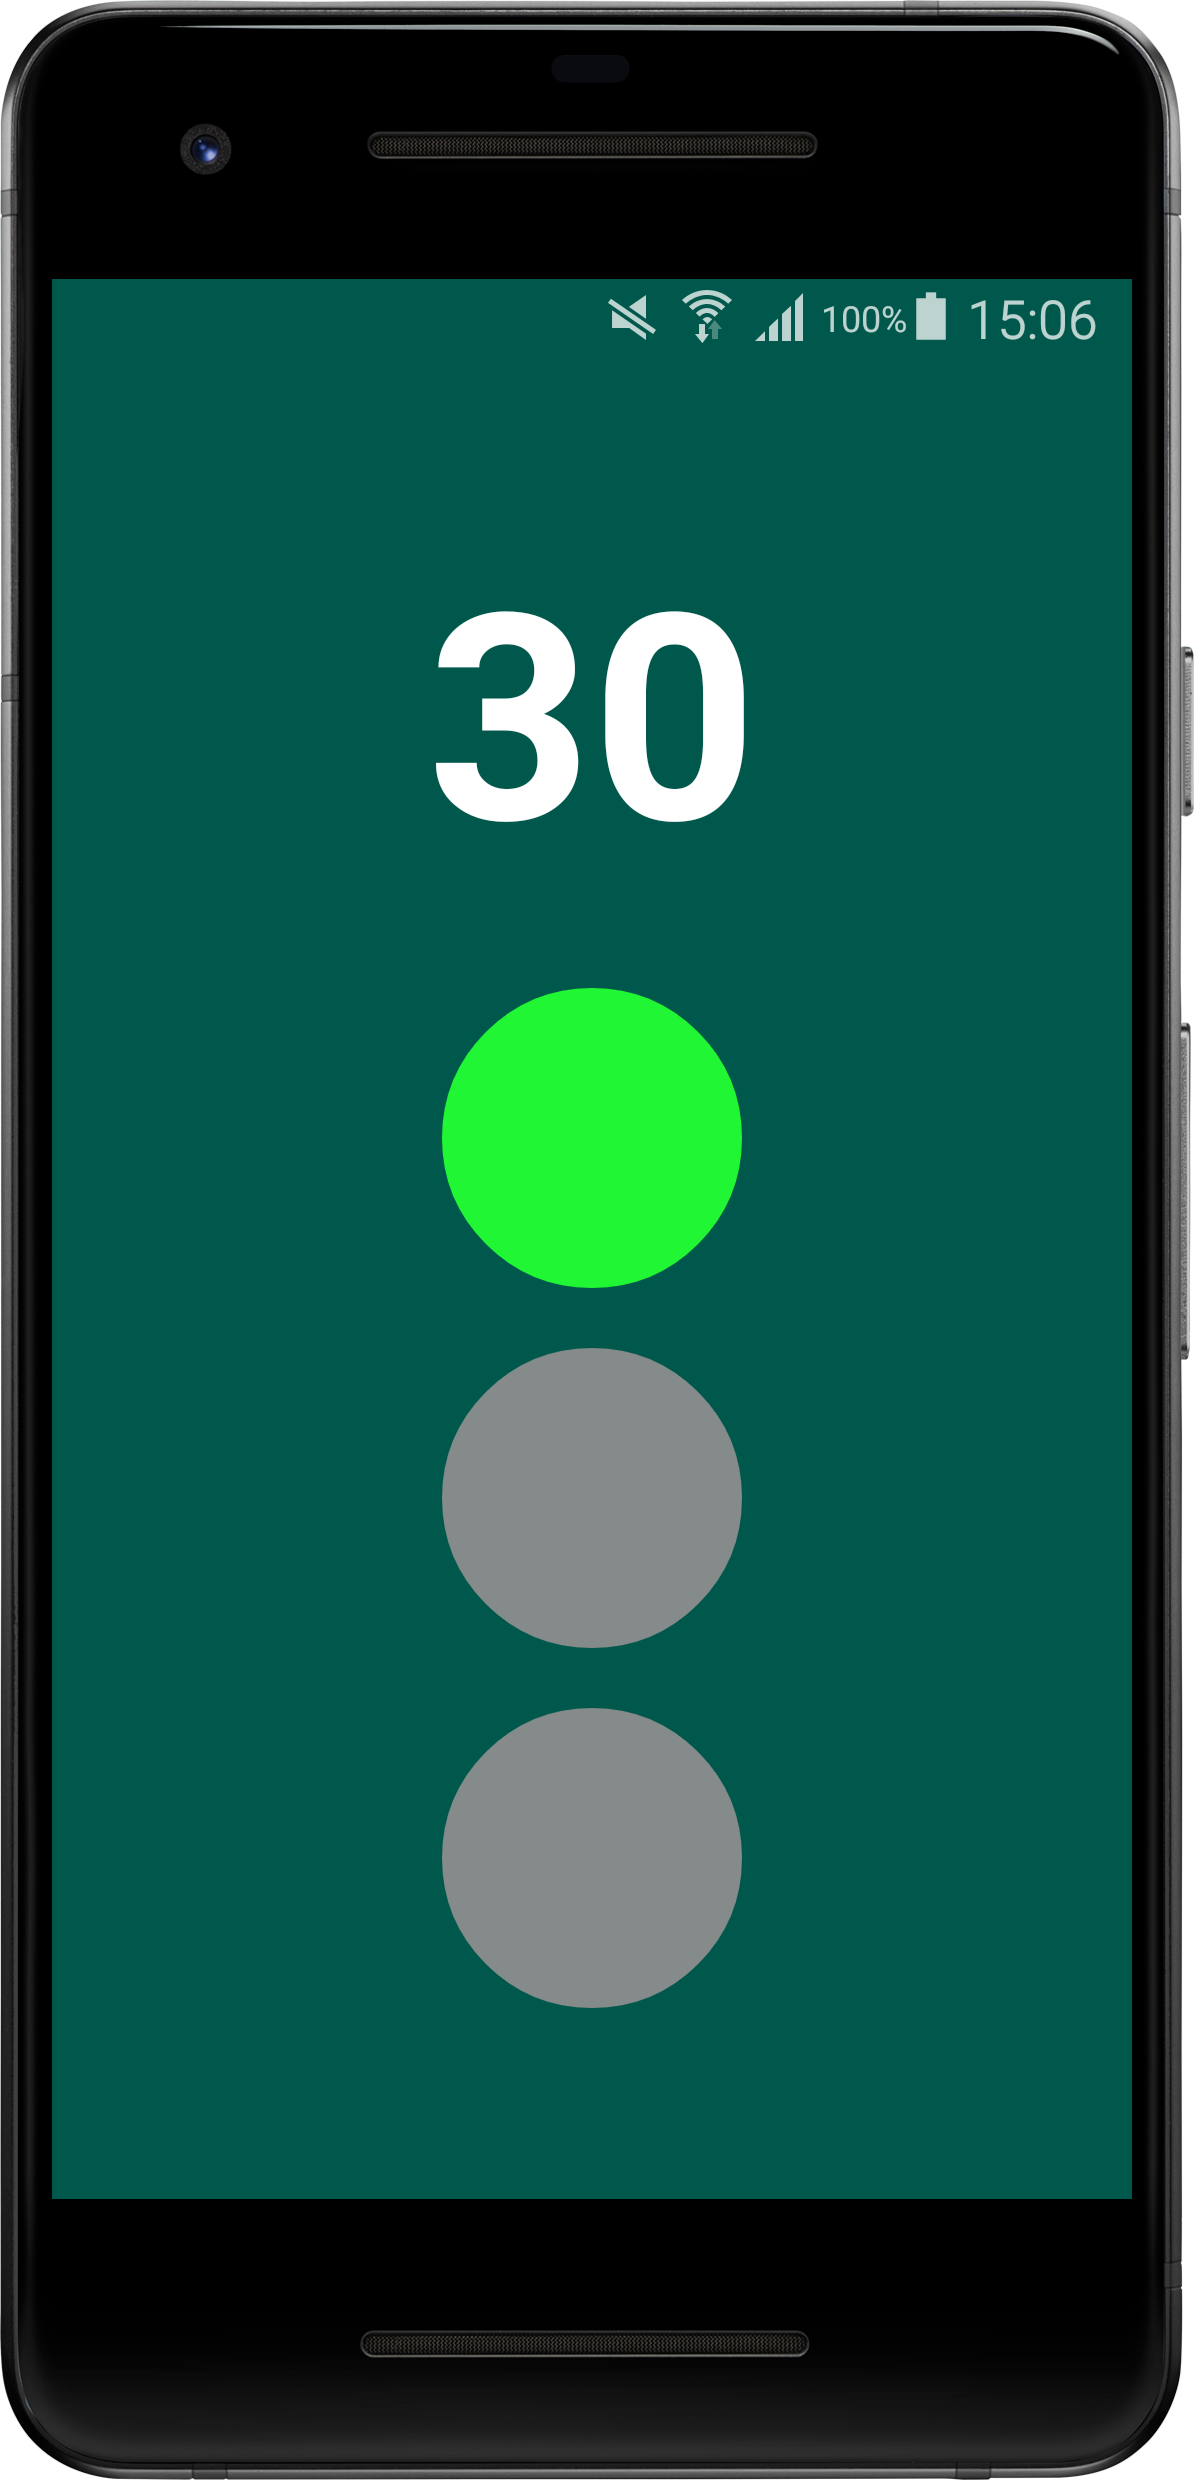
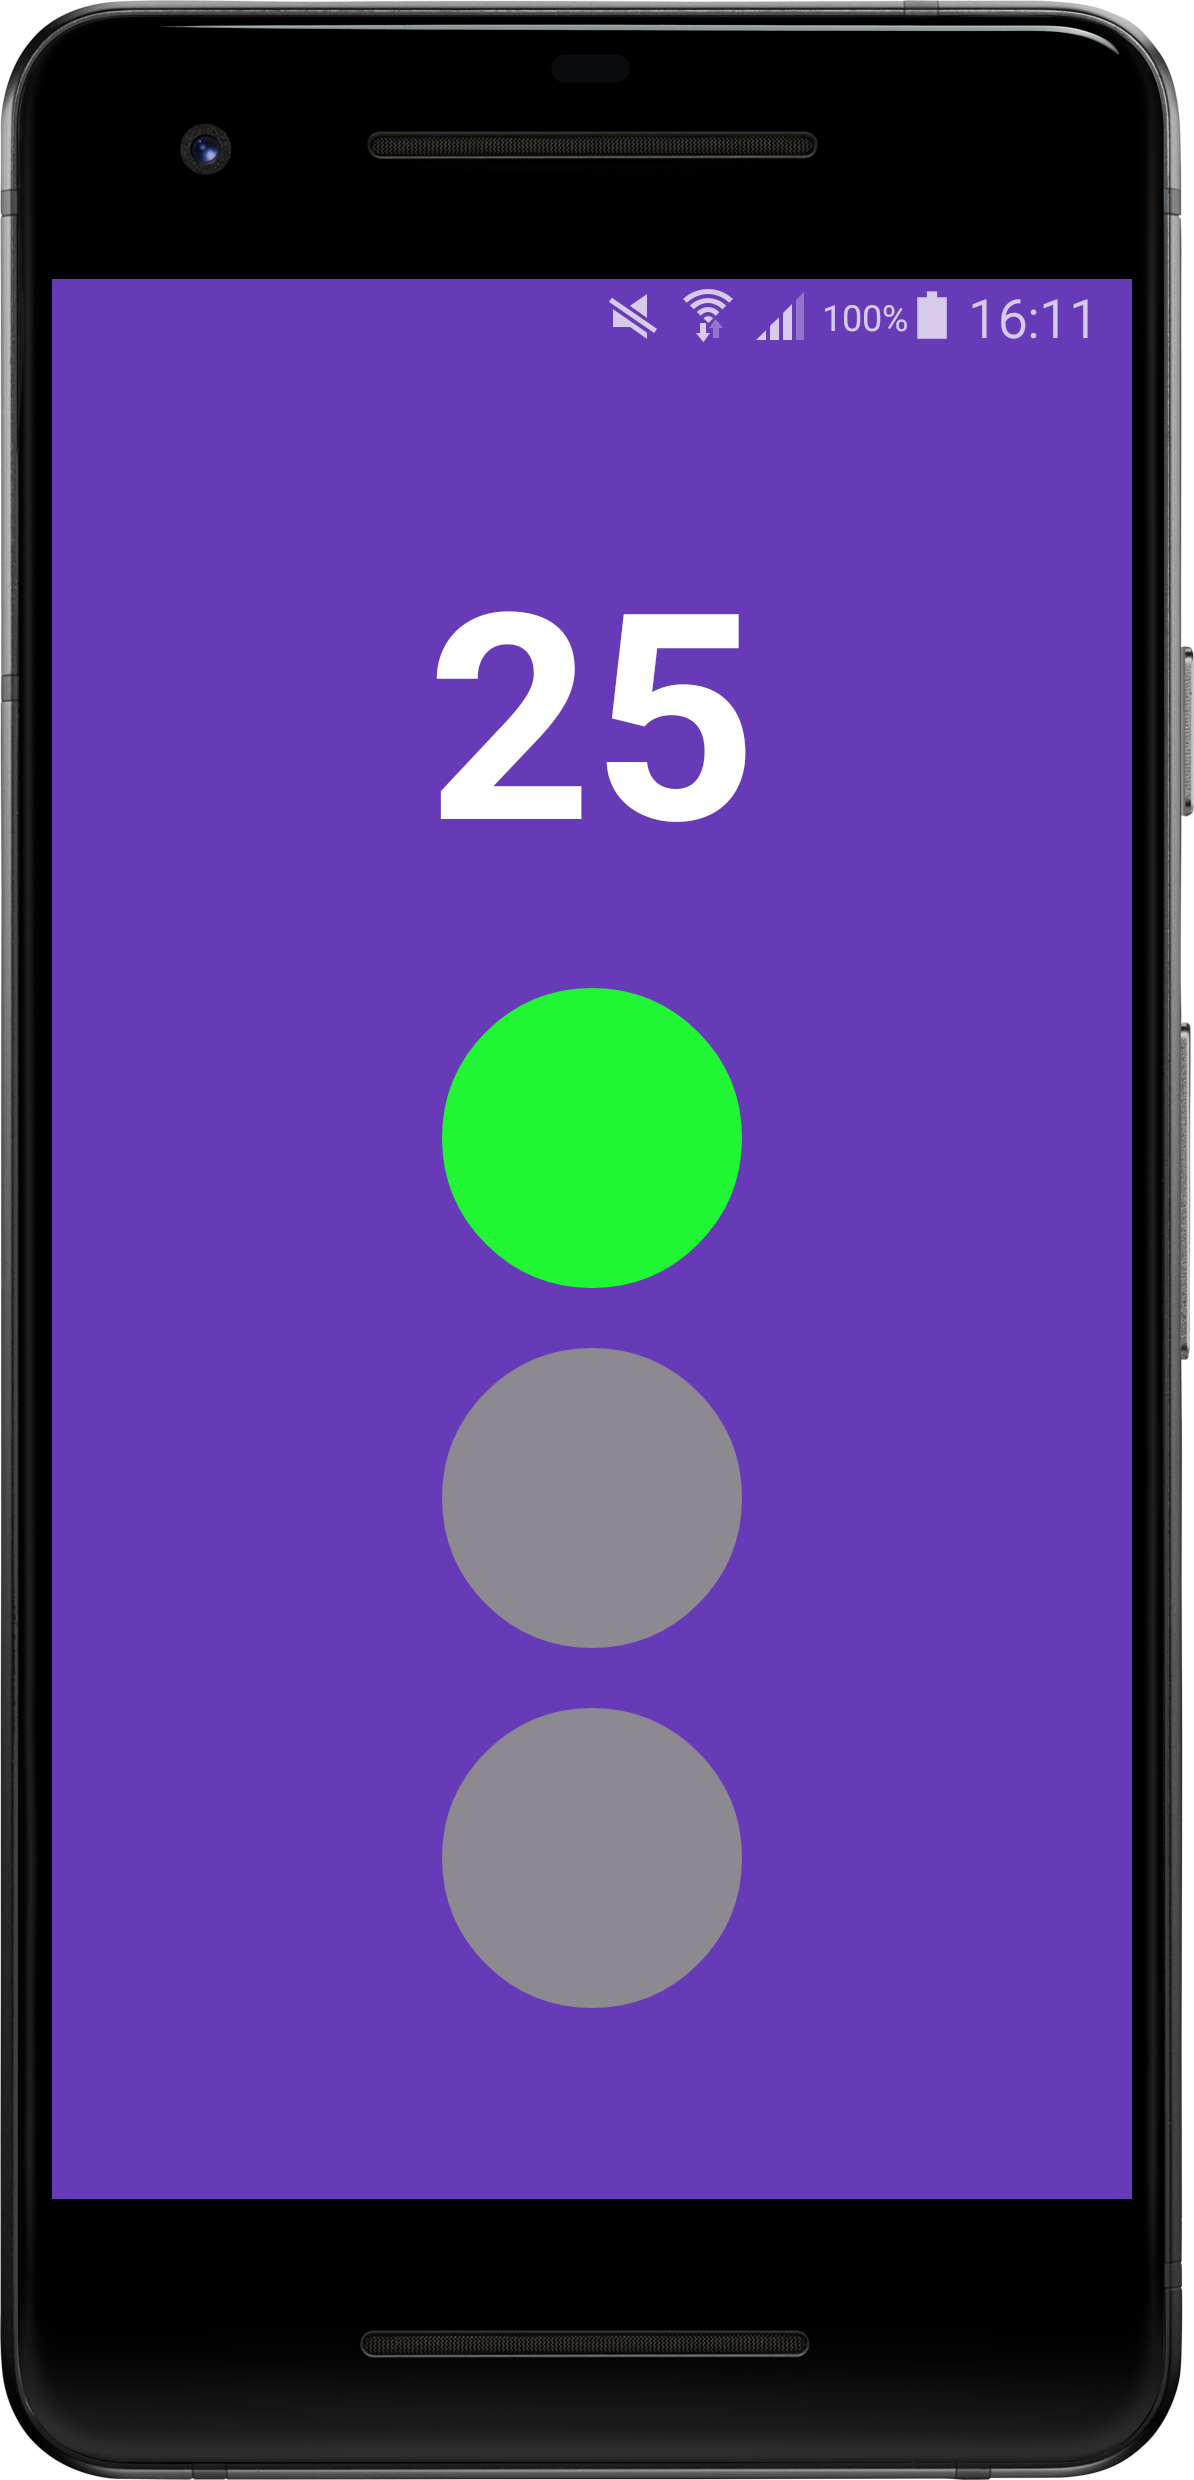
edit code run in main thread

diff --git a/app/src/main/java/m/vk/k012_handlerthread/MainActivity.kt b/app/src/main/java/m/vk/k012_handlerthread/MainActivity.kt
@@ -1,0 +1,77 @@
+package m.vk.k012_handlerthread
+
+import android.support.v7.app.AppCompatActivity
+import android.os.Bundle
+import android.os.Handler
+import android.os.Looper
+import android.os.Message
+import kotlinx.android.synthetic.main.activity_main.*
+
+class MainActivity : AppCompatActivity() {
+
+    lateinit var thread : Thread
+    lateinit var handler : Handler//มีหน้าที่ส่งข้อมูลไปยัง Looper
+    var isLooper : Boolean = true
+    var countRed : Int = 30
+    var countOrange: Int = 5
+    var countGreen : Int = 30
+    override fun onCreate(savedInstanceState: Bundle?) {
+        super.onCreate(savedInstanceState)
+        setContentView(R.layout.activity_main)
+
+        handler = object : Handler(Looper.getMainLooper()){//ผูก Handler เข้ากับ Looper ของ ManiThread ไว้
+            override fun handleMessage(msg: Message?) {
+                super.handleMessage(msg)
+                //Run in Main Thread
+                when {
+                    countGreen >= 0 -> {
+                        tvTimeCount.text = String.format("%02d",countGreen--)
+                        imgRed.setImageResource(R.color.color_gray)
+                        imgOrange.setImageResource(R.color.color_gray)
+                        imgGreen.setImageResource(R.color.color_green)
+                    }
+                    countOrange >= 0 -> {
+                        tvTimeCount.text = String.format("%02d",countOrange--)
+                        imgRed.setImageResource(R.color.color_gray)
+                        imgOrange.setImageResource(R.color.color_orange)
+                        imgGreen.setImageResource(R.color.color_gray)
+                    }
+                    countRed >= 0 -> {
+                        tvTimeCount.text = String.format("%02d",countRed--)
+                        imgRed.setImageResource(R.color.color_rad)
+                        imgOrange.setImageResource(R.color.color_gray)
+                        imgGreen.setImageResource(R.color.color_gray)
+                    }
+                    else -> {
+                        countRed = 30
+                        countOrange = 5
+                        countGreen  = 30
+                    }
+                }
+            }
+        }
+
+
+        thread = object : Thread(){
+            override fun run() {
+                //Run in background
+                while (isLooper){
+                    try {
+                        Thread.sleep(1000)
+                    }catch (e : InterruptedException){
+                        return
+                    }
+                    var msg = Message()
+                    handler.sendMessage(msg)//ส่งข้อมูลไปเข้าคิวรอทำงาน(อัพเดท UI)ใน Main Looper
+                }
+            }
+        }
+        thread.start()
+
+    }
+
+    override fun onDestroy() {
+        super.onDestroy()
+        thread.interrupt()
+    }
+}

diff --git a/app/src/androidTest/java/m/vk/k012_handlerthread/ExampleInstrumentedTest.kt b/app/src/androidTest/java/m/vk/k012_handlerthread/ExampleInstrumentedTest.kt
@@ -1,4 +1,4 @@
-package m.vk.k011_normalthread
+package m.vk.k012_handlerthread
 
 import android.support.test.InstrumentationRegistry
 import android.support.test.runner.AndroidJUnit4
@@ -19,6 +19,6 @@ class ExampleInstrumentedTest {
     fun useAppContext() {
         // Context of the app under test.
         val appContext = InstrumentationRegistry.getTargetContext()
-        assertEquals("m.vk.k011_normalthread", appContext.packageName)
+        assertEquals("m.vk.k012_handlerthread", appContext.packageName)
     }
 }

diff --git a/app/src/test/java/m/vk/k012_handlerthread/ExampleUnitTest.kt b/app/src/test/java/m/vk/k012_handlerthread/ExampleUnitTest.kt
@@ -1,4 +1,4 @@
-package m.vk.k011_normalthread
+package m.vk.k012_handlerthread
 
 import org.junit.Test
 

diff --git a/README.md b/README.md
@@ -1,0 +1,7 @@
+<div align="center">
+    <img src="/screenshots/img001.png" width="300px"</img> 
+    <img src="/screenshots/img002.png" width="300px"</img> 
+</div>
+<div align="center">
+    <img src="/screenshots/img003.png" width="300px"</img> 
+</div>
